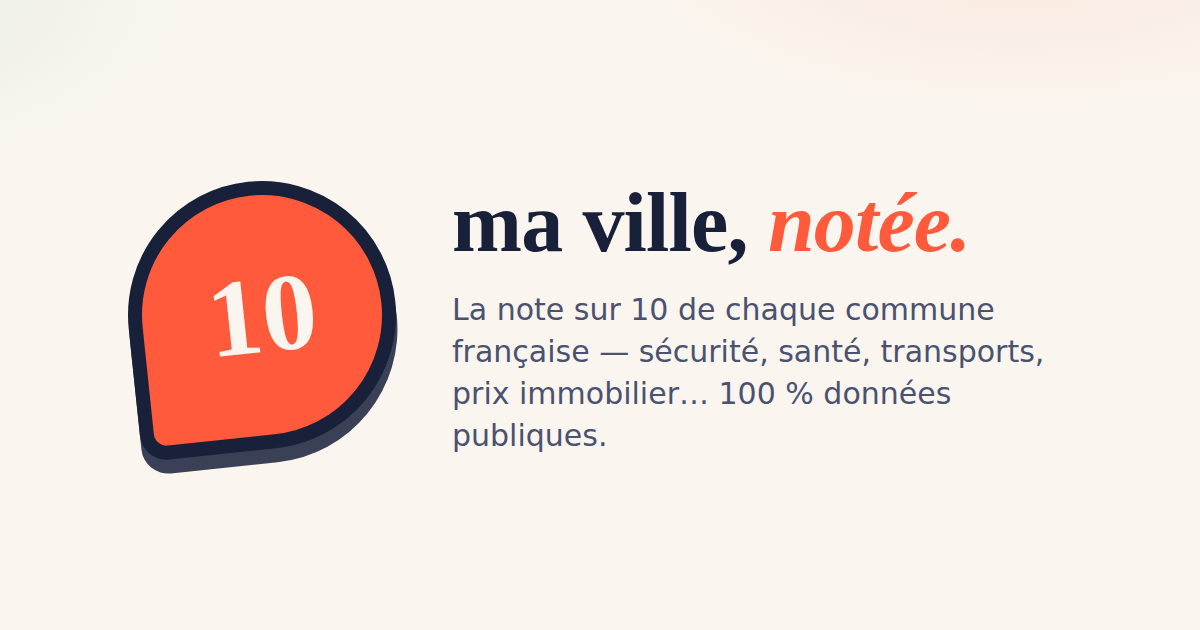
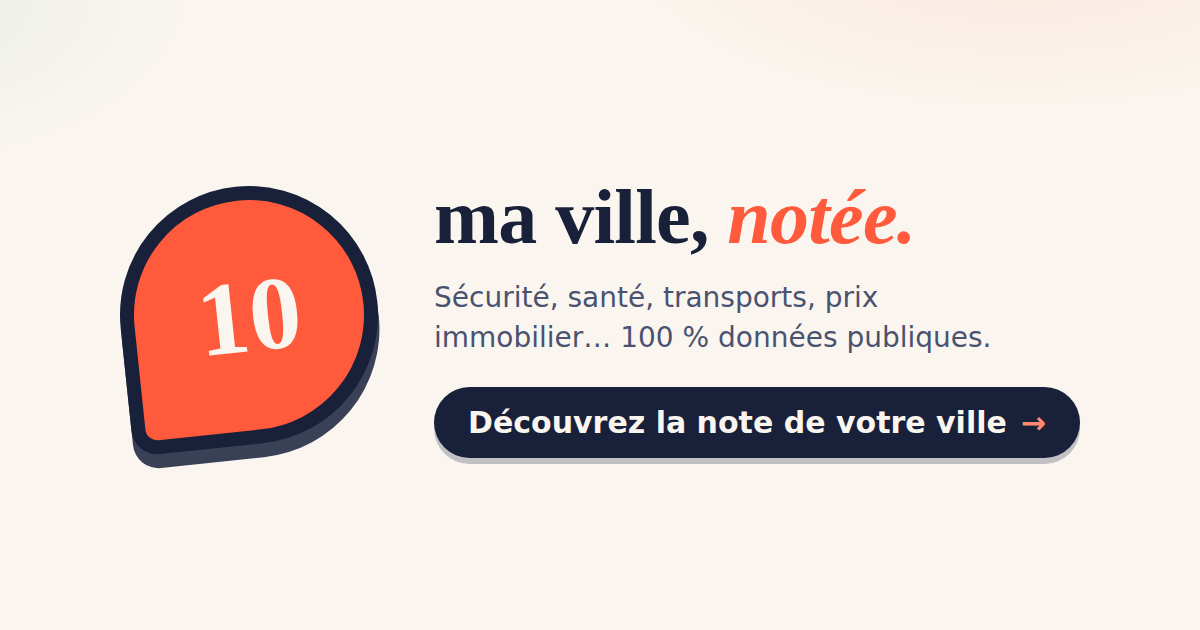
seo(og): call-to-action sur l'image de partage
L'inspecteur de meta-tags signalait l'absence de texte de conversion sur
og:image. L'image 1200×630 est régénérée avec un bouton « Découvrez la
note de votre ville → » (pilule encre, contraste AAA) et l'og:image:alt
est aligné. Inspecteur : 0 erreur / 12 verts attendus.

Claude-Session: https://claude.ai/code/session_01SbFD5bhEpNsr4ToLdTDMpd

Changed region(s): [[0.0925, 0.2714, 0.8633, 0.754], [0.3392, 0.6032, 0.925, 0.754], [0.3392, 0.3016, 0.8017, 0.4222]]

diff --git a/src/app/core/services/meta.service.ts b/src/app/core/services/meta.service.ts
@@ -41,7 +41,7 @@ export class MetaService {
     this.#meta.updateTag({ property: 'og:image:height', content: '630' });
     this.#meta.updateTag({
       property: 'og:image:alt',
-      content: 'ma ville, notée — la note sur 10 des communes françaises',
+      content: 'ma ville, notée — découvrez la note sur 10 de votre ville',
     });
     this.#meta.updateTag({ name: 'twitter:card', content: 'summary_large_image' });
 